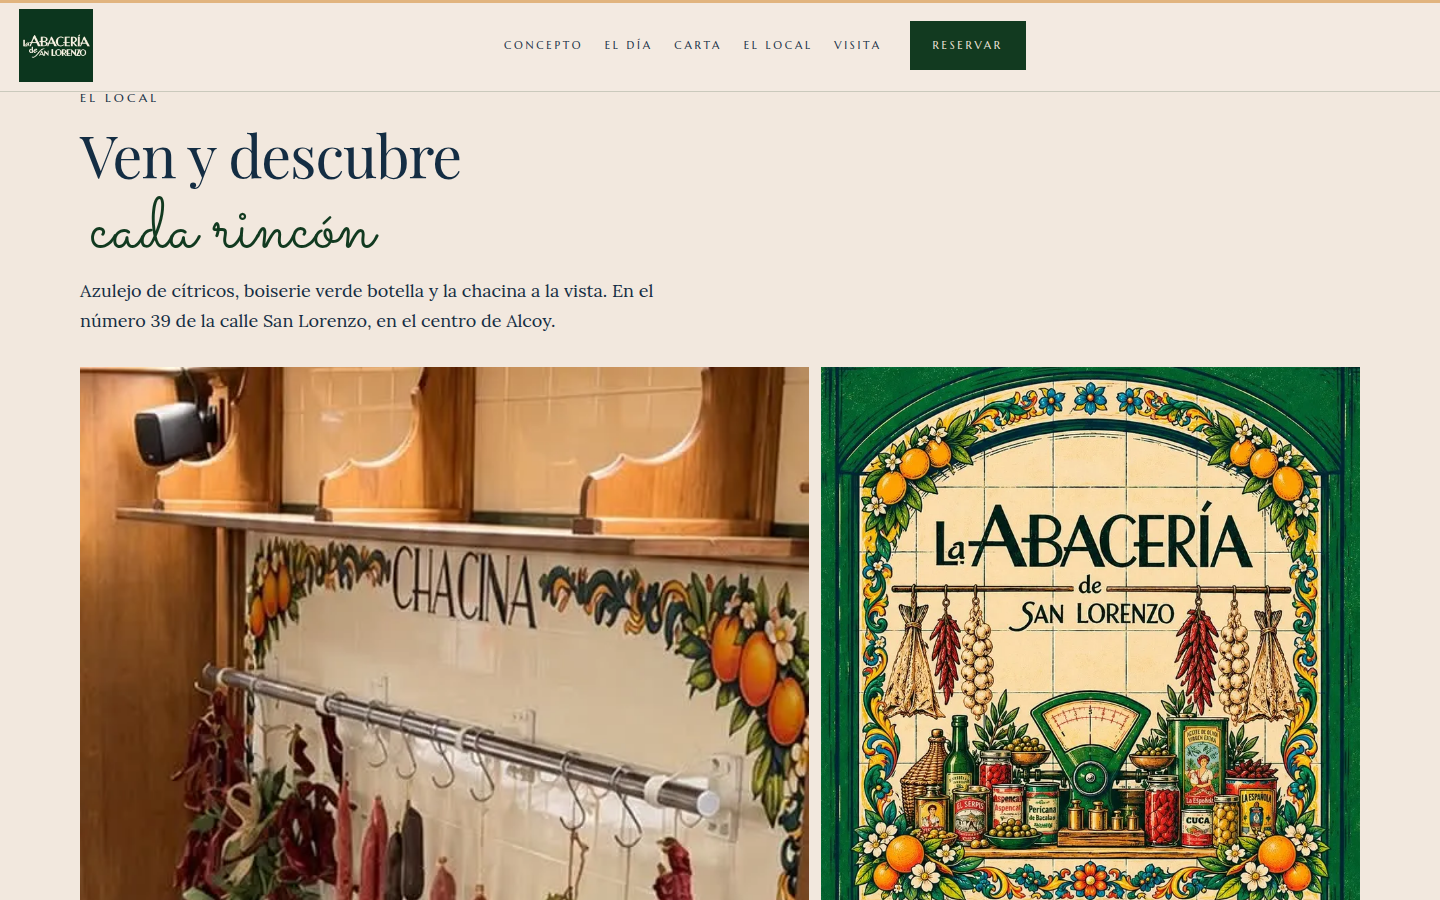
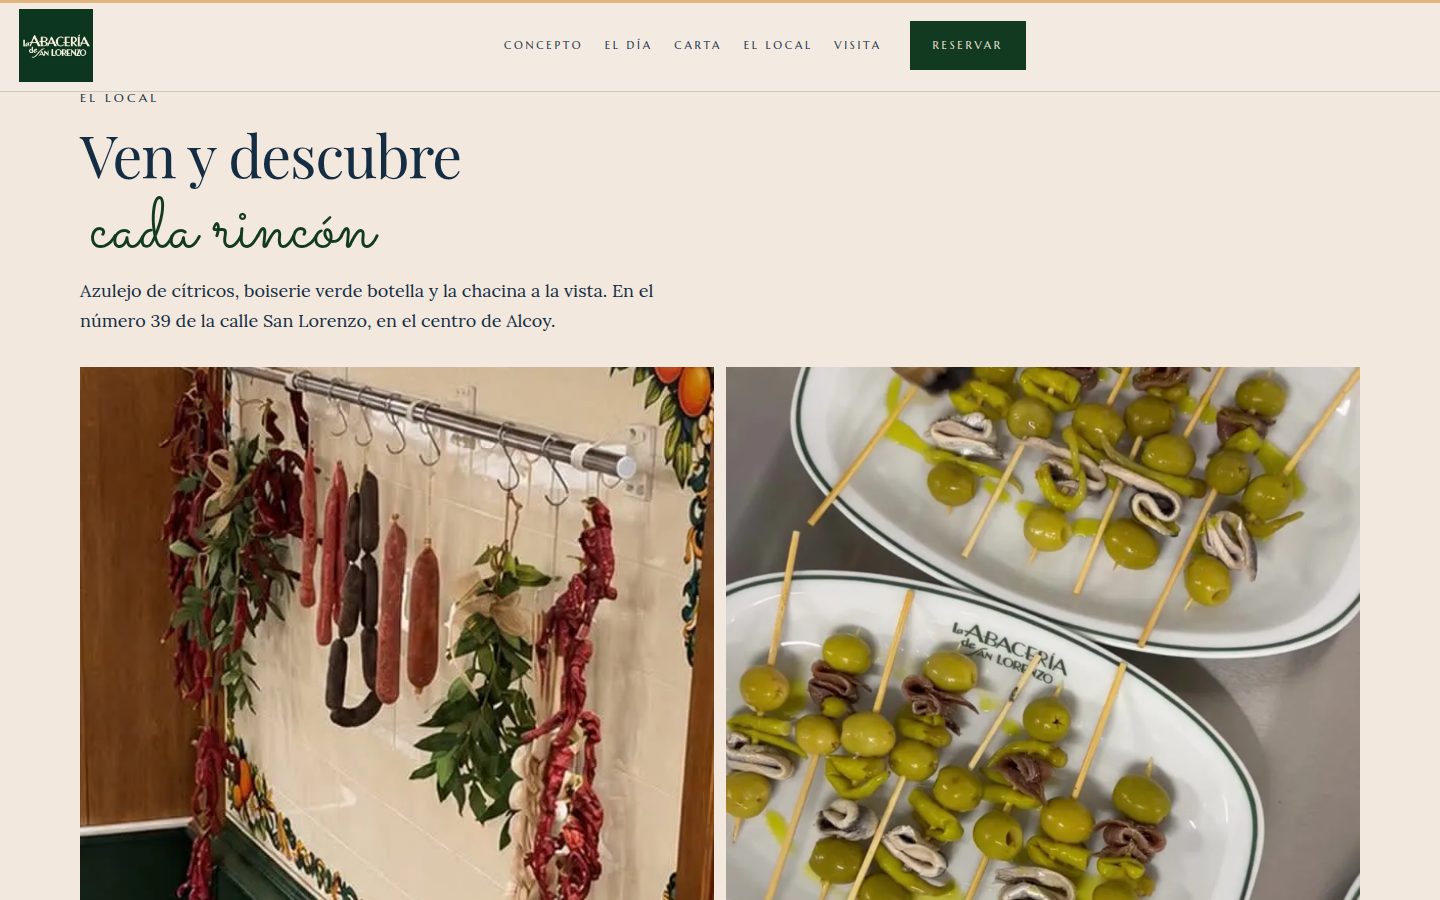
Añade el rótulo de noche, las gildas y el tirador al local.
El hero usa la fachada sin gente. La galería suma las gildas y la cerveza de grifo. El logo sigue siendo el PNG del perfil.

diff --git a/src/styles/global.css b/src/styles/global.css
@@ -375,6 +375,16 @@ p {
   object-position: center 42%;
 }
 
+.hero-fachada {
+  aspect-ratio: 1080 / 640;
+  align-self: center;
+  min-height: 14rem;
+}
+
+.hero-fachada img {
+  object-position: center center;
+}
+
 .hero-caption {
   position: absolute;
   left: 0.8rem;
@@ -638,7 +648,8 @@ p {
 }
 
 .shot-b,
-.shot-c {
+.shot-c,
+.shot-d {
   aspect-ratio: 4 / 5;
 }
 
@@ -958,6 +969,13 @@ p {
 
   .hero {
     grid-template-columns: minmax(0, 1.05fr) minmax(0, 0.95fr);
+    align-items: center;
+  }
+
+  .hero-fachada {
+    width: 100%;
+    aspect-ratio: 1080 / 640;
+    max-height: calc(100svh - var(--header-h) - 2rem);
   }
 
   .logo-lg {
@@ -969,8 +987,12 @@ p {
     order: 0;
   }
 
-  .hero-photo {
+  .hero-photo:not(.hero-fachada) {
     min-height: 100%;
+  }
+
+  .hero-fachada {
+    min-height: 0;
   }
 
   .momentos-grid {
@@ -992,13 +1014,13 @@ p {
   }
 
   .gallery {
-    grid-template-columns: 1.15fr 0.85fr;
+    grid-template-columns: 1fr 1fr;
   }
 
   .shot-a {
-    grid-row: 1 / span 2;
-    aspect-ratio: auto;
-    min-height: 100%;
+    grid-row: auto;
+    aspect-ratio: 3 / 4;
+    min-height: 0;
   }
 
   .visit-grid {
